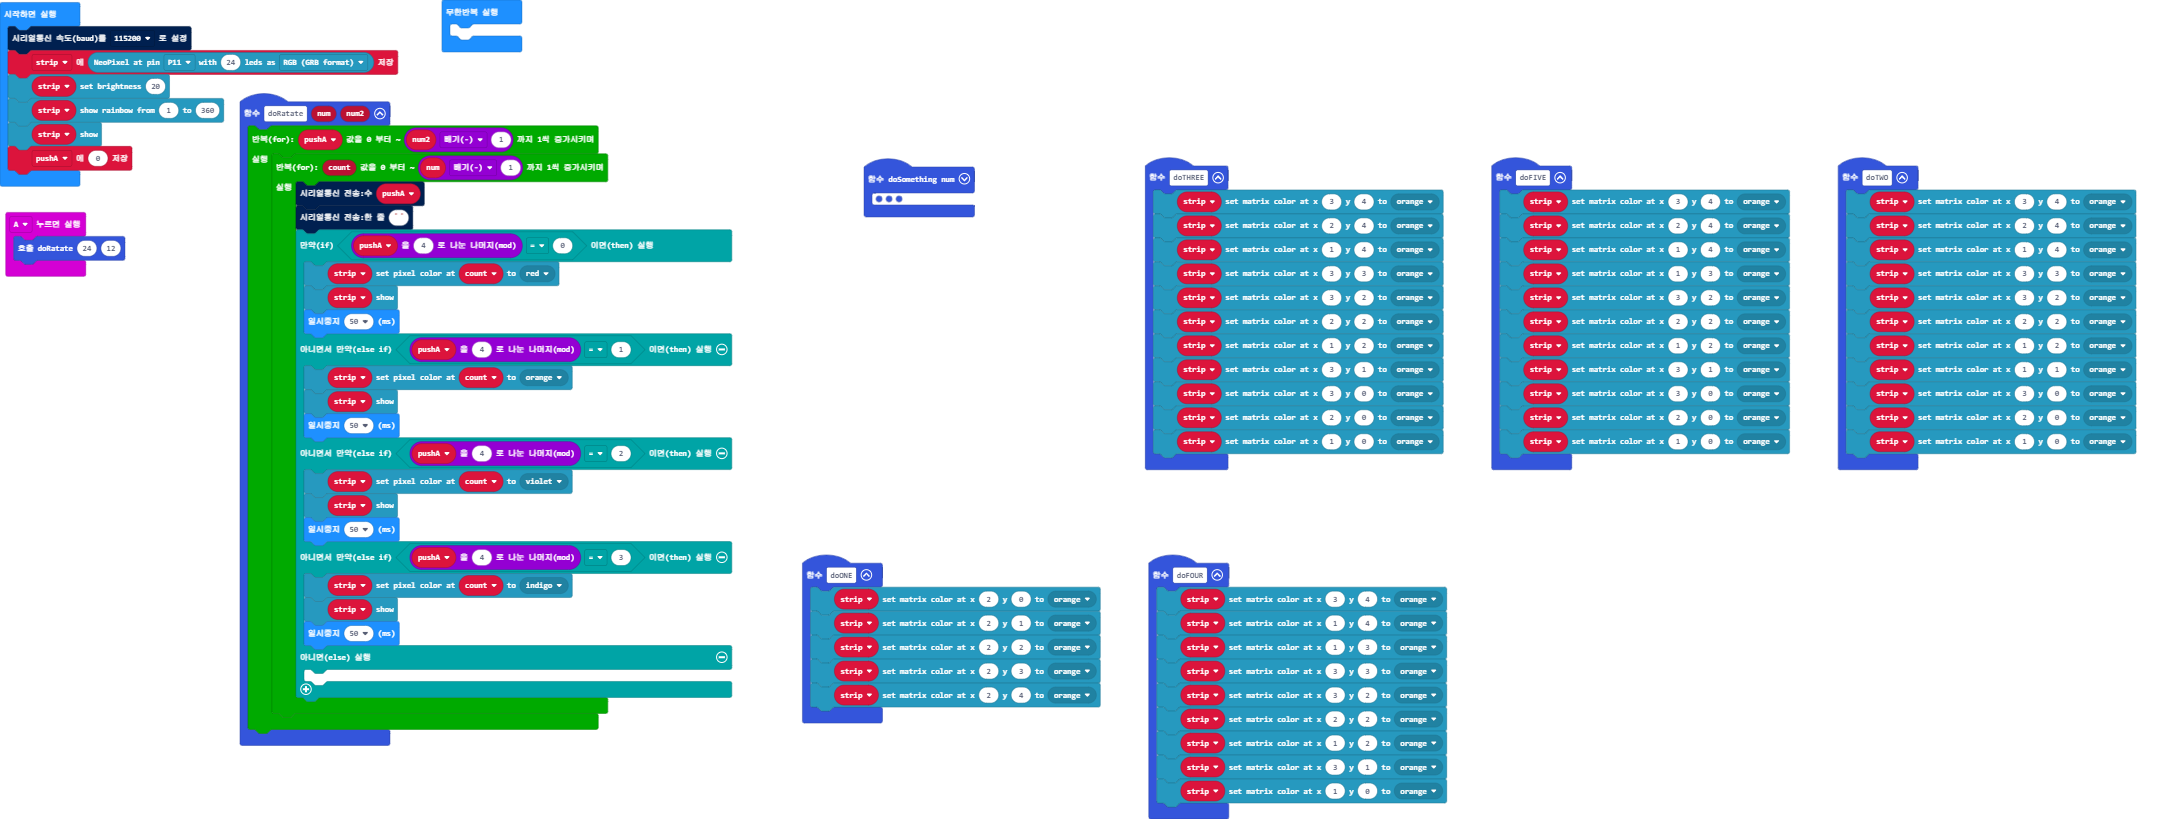
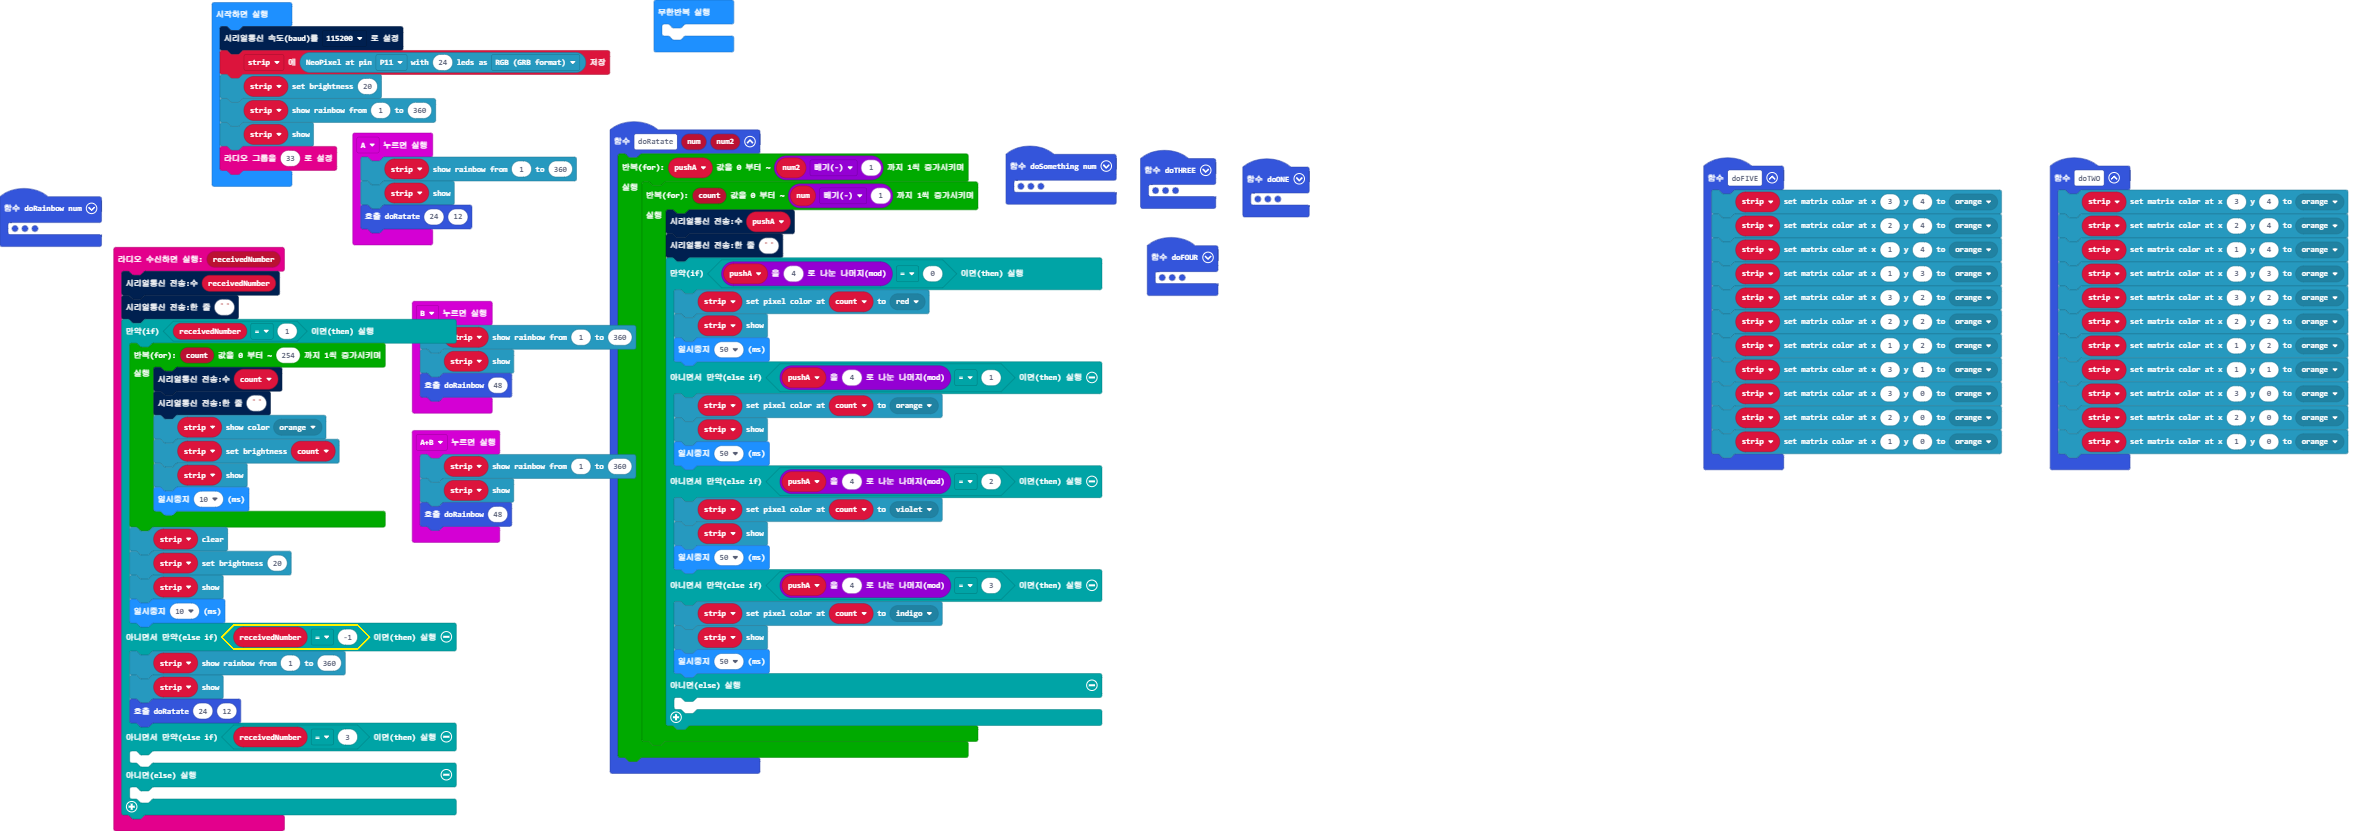
main.blocks, main.ts 업데이트하기

diff --git a/main.ts b/main.ts
@@ -1,3 +1,29 @@
+radio.onReceivedNumber(function (receivedNumber) {
+    serial.writeNumber(receivedNumber)
+    serial.writeLine("")
+    if (receivedNumber == 1) {
+        for (let count = 0; count <= 254; count++) {
+            serial.writeNumber(count)
+            serial.writeLine("")
+            strip.showColor(neopixel.colors(NeoPixelColors.Orange))
+            strip.setBrightness(count)
+            strip.show()
+            basic.pause(10)
+        }
+        strip.clear()
+        strip.setBrightness(20)
+        strip.show()
+        basic.pause(10)
+    } else if (receivedNumber == -1) {
+        strip.showRainbow(1, 360)
+        strip.show()
+        doRatate(24, 12)
+    } else if (receivedNumber == 3) {
+    	
+    } else {
+    	
+    }
+})
 function doTWO () {
     strip.setMatrixColor(3, 4, neopixel.colors(NeoPixelColors.Orange))
     strip.setMatrixColor(2, 4, neopixel.colors(NeoPixelColors.Orange))
@@ -23,6 +49,8 @@ function doFOUR () {
     strip.setMatrixColor(1, 0, neopixel.colors(NeoPixelColors.Orange))
 }
 input.onButtonPressed(Button.A, function () {
+    strip.showRainbow(1, 360)
+    strip.show()
     doRatate(24, 12)
 })
 function doSomething (num: number) {
@@ -52,6 +80,25 @@ function doTHREE () {
     strip.setMatrixColor(3, 0, neopixel.colors(NeoPixelColors.Orange))
     strip.setMatrixColor(2, 0, neopixel.colors(NeoPixelColors.Orange))
     strip.setMatrixColor(1, 0, neopixel.colors(NeoPixelColors.Orange))
+}
+input.onButtonPressed(Button.AB, function () {
+    strip.showRainbow(1, 360)
+    strip.show()
+    doRainbow(48)
+})
+input.onButtonPressed(Button.B, function () {
+    strip.showRainbow(1, 360)
+    strip.show()
+    doRainbow(48)
+})
+function doRainbow (num: number) {
+    for (let new_count = 0; new_count <= num; new_count++) {
+        serial.writeNumber(new_count)
+        serial.writeLine("")
+        strip.rotate(1)
+        strip.show()
+        basic.pause(100)
+    }
 }
 function doRatate (num: number, num2: number) {
     for (let pushA = 0; pushA <= num2 - 1; pushA++) {
@@ -106,7 +153,7 @@ strip = neopixel.create(DigitalPin.P11, 24, NeoPixelMode.RGB)
 strip.setBrightness(20)
 strip.showRainbow(1, 360)
 strip.show()
-let pushA = 0
+radio.setGroup(33)
 basic.forever(function () {
 	
 })
